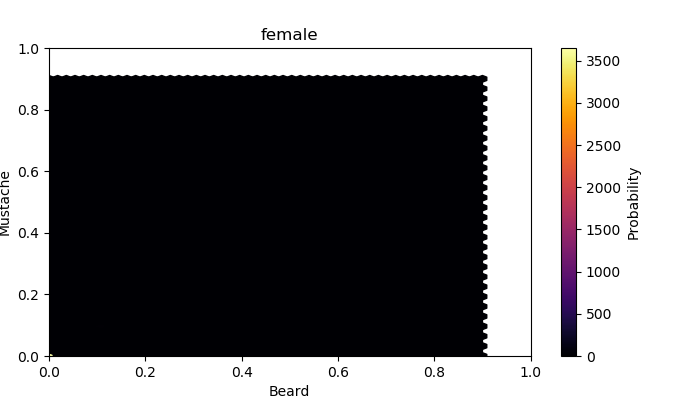
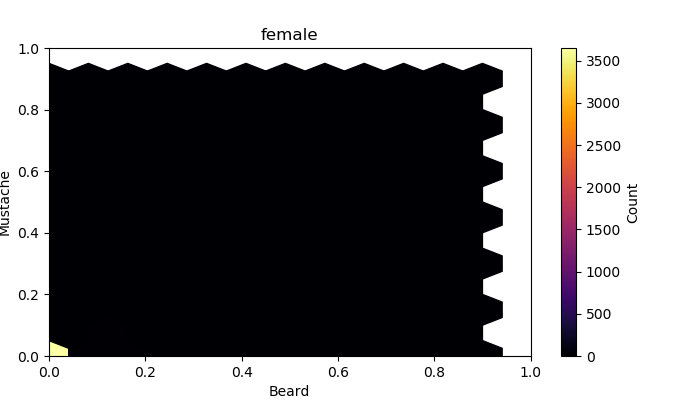
color testing

Changed region(s): [[0.06, 0.15, 0.72, 0.9], [0.9, 0.42, 0.93, 0.6], [0.06, 0.84, 0.12, 0.9]]

diff --git a/visualization.py b/visualization.py
@@ -20,14 +20,14 @@ import utils.dataloader
 def visualize_comparison(x, y, gender, path):
     print('Visualize', gender + '...')
     # pdb.set_trace()
-    plt.plot(x, y)
-    plt.xlabel('beard')
-    plt.ylabel('mustache')
+    # plt.plot(x, y)
+    # plt.xlabel('beard')
+    # plt.ylabel('mustache')
 
     # Binning
     fig, ax = plt.subplots(ncols=1, sharey=True, figsize=(7, 4))
     fig.subplots_adjust(hspace=0.5, left=0.07, right=0.93)
-    hb = ax.hexbin(x, y, gridsize=11, cmap='inferno')
+    hb = ax.hexbin(x, y, gridsize=11, cmap='viridis')
     ax.set(xlim=(0, 1), ylim=(0, 1))
     ax.set_title(gender)
     ax.set_xlabel('Beard')
@@ -35,27 +35,49 @@ def visualize_comparison(x, y, gender, path):
     cb = fig.colorbar(hb, ax=ax)
     cb.set_label('Count')
 
-    plt.savefig(os.path.join(path, gender + '_Beard-Mustache_bin.png'))
+    plt.savefig(os.path.join(path, gender + '_Beard-Mustache_bin_viridis.png'))
 
 
-def table_compare(x, y, z, x_title, y_title, z_title, path):
-    def has_attr(cpt, gender):
-        if y[cpt] == 1:
-            dict_gender[gender][y_title] += 1
-        if z[cpt] == 1:
-            dict_gender[gender][z_title] += 1
+    # Binning
+    fig, ax = plt.subplots(ncols=1, sharey=True, figsize=(7, 4))
+    fig.subplots_adjust(hspace=0.5, left=0.07, right=0.93)
+    hb = ax.hexbin(x, y, gridsize=11, cmap='plasma')
+    ax.set(xlim=(0, 1), ylim=(0, 1))
+    ax.set_title(gender)
+    ax.set_xlabel('Beard')
+    ax.set_ylabel('Mustache')
+    cb = fig.colorbar(hb, ax=ax)
+    cb.set_label('Count')
 
-    dict_gender = {'male': {'beard': 0, 'mustache': 0, 'unconclusive_image': 0}, 'female': {'beard': 0, 'mustache': 0, 'unconclusive_image': 0}}
-    for cpt in range(len(x)):
-        if x[cpt] == 1:
-            gender = 'female'
-            has_attr(cpt, gender)
-        else:
-            gender = 'male'
-            has_attr(cpt, gender)
+    plt.savefig(os.path.join(path, gender + '_Beard-Mustache_bin_plasma.png'))
 
-    print('dict of gender')
-    print(dict)
+
+    # Binning
+    fig, ax = plt.subplots(ncols=1, sharey=True, figsize=(7, 4))
+    fig.subplots_adjust(hspace=0.5, left=0.07, right=0.93)
+    hb = ax.hexbin(x, y, gridsize=11, cmap='magma')
+    ax.set(xlim=(0, 1), ylim=(0, 1))
+    ax.set_title(gender)
+    ax.set_xlabel('Beard')
+    ax.set_ylabel('Mustache')
+    cb = fig.colorbar(hb, ax=ax)
+    cb.set_label('Count')
+
+    plt.savefig(os.path.join(path, gender + '_Beard-Mustache_bin_magma.png'))
+
+
+    # Binning
+    fig, ax = plt.subplots(ncols=1, sharey=True, figsize=(7, 4))
+    fig.subplots_adjust(hspace=0.5, left=0.07, right=0.93)
+    hb = ax.hexbin(x, y, gridsize=11, cmap='cividis')
+    ax.set(xlim=(0, 1), ylim=(0, 1))
+    ax.set_title(gender)
+    ax.set_xlabel('Beard')
+    ax.set_ylabel('Mustache')
+    cb = fig.colorbar(hb, ax=ax)
+    cb.set_label('Count')
+
+    plt.savefig(os.path.join(path, gender + '_Beard-Mustache_bin_cividis.png'))
 
 
 
